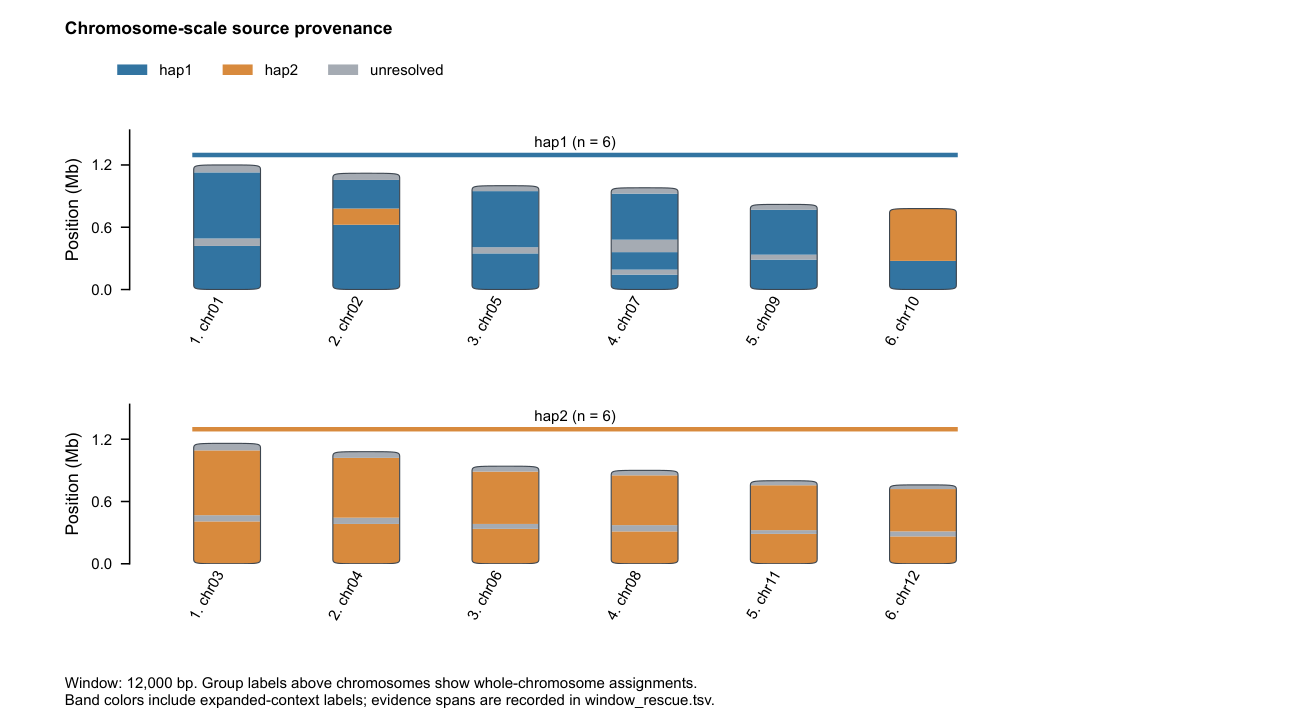
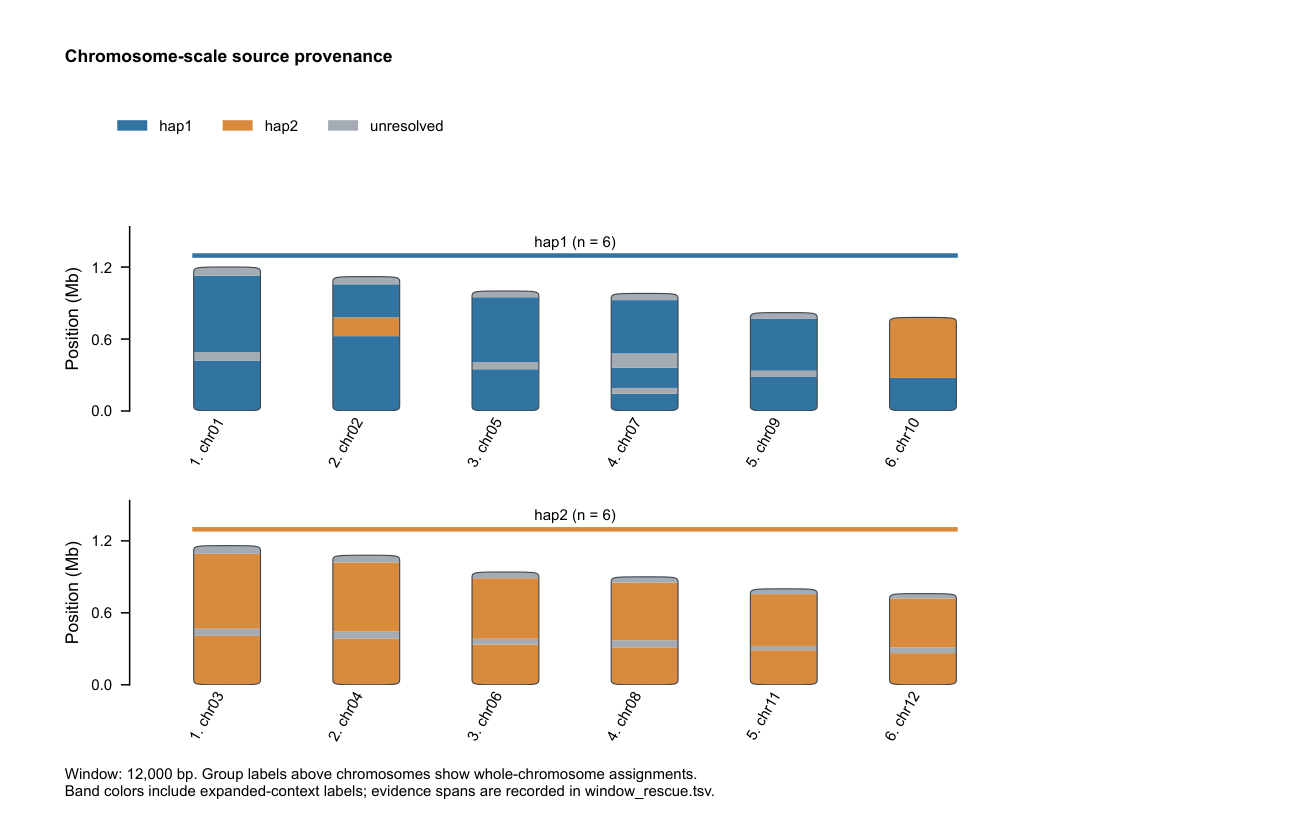
Simplify HTML and prevent chromosome provenance row overlap

diff --git a/hapreturn/plotting.py b/hapreturn/plotting.py
@@ -82,6 +82,23 @@ def source_blocks(data, size=16):
     return blocks
 
 
+def space_chromosome_rows(fig, axes):
+    """Reserve physical space for rotated chromosome labels between rows."""
+    fig.canvas.draw()
+    renderer = fig.canvas.get_renderer()
+    depths = [max(0, ax.get_window_extent(renderer).y0 - ax.get_tightbbox(renderer).y0)
+              / fig.dpi * 25.4 for ax in axes]
+    row_mm, top_mm, gap_mm, footer_mm = 26, 32, 5, 12
+    height_mm = max(100, top_mm + row_mm * len(axes) + sum(depths)
+                    + gap_mm * (len(axes) - 1) + footer_mm)
+    fig.set_size_inches(WIDTH, height_mm / 25.4, forward=True)
+    cursor = height_mm - top_mm
+    for ax, depth in zip(axes, depths):
+        ax.set_position([0.10, (cursor - row_mm) / height_mm, 0.88, row_mm / height_mm])
+        cursor -= row_mm + depth + gap_mm
+    return height_mm
+
+
 def partition_pages(data, pdf):
     labels, names, colors = data.labels, list(data.records), palette(data.labels)
     categories = labels + ["unresolved", "unplaced"]
@@ -135,8 +152,10 @@ def partition_pages(data, pdf):
         nrows = len(selected_blocks)
         fig = plt.figure(figsize=(WIDTH, min(170, max(95, 40 + 31 * nrows)) / 25.4))
         grid = fig.add_gridspec(nrows, 1, left=0.10, right=0.98, top=0.82, bottom=0.22, hspace=0.72)
+        axes = []
         for row in range(nrows):
             ax = fig.add_subplot(grid[row, 0])
+            axes.append(ax)
             assignment, subset = selected_blocks[row]
             for x, name in enumerate(subset):
                 length = data.records[name] / 1e6
@@ -164,10 +183,11 @@ def partition_pages(data, pdf):
             ax.tick_params(axis="x", length=0, pad=2)
             ax.yaxis.set_major_locator(MaxNLocator(nbins=3))
             ax.spines["bottom"].set_visible(False)
-        fig.text(0.05, 0.97, "Chromosome-scale source provenance", fontsize=7, weight="bold", va="top")
+        height_mm = space_chromosome_rows(fig, axes)
+        fig.text(0.05, 1 - 7 / height_mm, "Chromosome-scale source provenance", fontsize=7, weight="bold", va="top")
         fig.legend(handles=[Patch(facecolor=colors[l], label=l) for l in categories[:3]],
-                   loc="upper left", bbox_to_anchor=(0.08, 0.93), ncol=3)
-        fig.text(0.05, 0.025, f"Window: {data.window_size:,} bp. Group labels above chromosomes show whole-chromosome assignments.\n"
+                   loc="upper left", bbox_to_anchor=(0.08, 1 - 15 / height_mm), ncol=3)
+        fig.text(0.05, 4 / height_mm, f"Window: {data.window_size:,} bp. Group labels above chromosomes show whole-chromosome assignments.\n"
                  "Band colors include expanded-context labels; evidence spans are recorded in window_rescue.tsv.", fontsize=6)
         pages.append(save_page(fig, pdf, f"partition_chromosomes_{offset}"))
     return pages

diff --git a/hapreturn/visualize.py b/hapreturn/visualize.py
@@ -135,20 +135,6 @@ def write_html(path, data, sections):
     categories = data.labels + ["unresolved", "unplaced"]
     stats = "".join(f'<tr><td>{i}</td><td>{escape(label)}</td><td>{count:,}</td><td>{bases:,}</td><td>{bases / 1e6:.3f}</td></tr>' for i, (label, count, bases) in enumerate(zip(categories, data.counts, data.bases), 1))
     summary = '<section><h2>Recovery summary</h2><table><thead><tr><th>No.</th><th>Source</th><th>Sequence count</th><th>Total length (bp)</th><th>Total length (Mb)</th></tr></thead><tbody>' + stats + '</tbody></table></section>'
-    if any(row.get("assignment_mode") == "balanced" for row in details.values()):
-        summary += '<section><h2>Group-constrained assignment</h2><p>Equal source counts are enforced within each supplied homolog group. The selected combination maximizes total union-covered bases. The assignment table retains the independent evidence label alongside the final label; review flags are recorded in group_qc.tsv.</p></section>'
-    metric_labels = {"all_windows": "All local windows", "raw_unresolved": "Unresolved before expansion",
-                     "rescued_by_expansion": "Resolved by expansion", "remaining_unresolved": "Still unresolved",
-                     "no_accepted_alignment": "Remaining: no accepted alignment",
-                     "below_coverage_threshold": "Remaining: coverage below threshold",
-                     "competing_sources": "Remaining: competing source support"}
-    qc_table = ''.join(f'<tr><td>{escape(metric_labels[key])}</td><td>{count:,}</td><td>{bases:,}</td><td>{bases / 1e6:.3f}</td></tr>'
-                       for key, count, bases in window_qc(data))
-    maximum_context = max((row[5] for row in data.rescue_attempts), default=0)
-    summary += (f'<section><h2>Local provenance reassessment</h2><p>Window expansion: {len(data.rescue_attempts):,} attempted contexts; '
-                f'largest context: {maximum_context:,} bp. Remaining gray windows have insufficient accepted coverage or competing source support.</p>'
-                '<table><thead><tr><th>Status</th><th>Windows</th><th>Length (bp)</th><th>Length (Mb)</th></tr></thead>'
-                f'<tbody>{qc_table}</tbody></table></section>')
     maximum = max(data.records.values())
     tracks = []
     for index, (name, length) in enumerate(data.records.items()):

diff --git a/tests/test_visualize.py b/tests/test_visualize.py
@@ -50,8 +50,8 @@ class VisualizationTests(unittest.TestCase):
             self.assertIn('chr&lt;&amp;&quot;', report)
             self.assertIn('addEventListener', report)
             self.assertIn('Recovery summary', report)
-            self.assertIn('Local provenance reassessment', report)
-            self.assertIn('largest context:', report)
+            self.assertNotIn('Local provenance reassessment', report)
+            self.assertNotIn('Group-constrained assignment', report)
             self.assertTrue((out / 'window_qc.tsv').is_file())
             self.assertIn('<th>No.</th>', report)
             self.assertIn("#assignments tbody tr", report)

diff --git a/hapreturn/__init__.py b/hapreturn/__init__.py
@@ -1,3 +1,3 @@
 """HapReturn: recover assembly source provenance."""
 
-__version__ = "0.5.1"
+__version__ = "0.5.2"

diff --git a/docs/method.md b/docs/method.md
@@ -33,7 +33,7 @@ Identify runs of consecutive raw unresolved windows. For every window in a run, 
 
 `window_rescue.tsv` records attempted contexts, their source-covered bases and decisions. `window_provenance.tsv` preserves raw and revised labels, the method, and context coordinates. Thus a context-supported label is distinguishable from direct window evidence. Coordinates are zero-based and half-open.
 
-`window_qc.tsv` and HTML summarize raw unresolved, rescued and remaining unresolved windows by count and sequence length. Remaining windows are categorized by their original local evidence: no accepted alignment, maximum source coverage below threshold, or competing source support. Expansion reuses the same evidence, so a full gray run can still fail the thresholds.
+`window_qc.tsv` summarizes raw unresolved, rescued and remaining unresolved windows by count and sequence length. Remaining windows are categorized by their original local evidence: no accepted alignment, maximum source coverage below threshold, or competing source support. Expansion reuses the same evidence, so a full gray run can still fail the thresholds.
 
 ## Figures
 

diff --git a/README.md b/README.md
@@ -75,7 +75,7 @@ Within each original contiguous gray run, expand an unresolved window's evidence
 
 `window_provenance.tsv` records raw and revised labels, method and evidence span. `window_rescue.tsv` records every context attempt. Local labels are separate from chromosome group assignments.
 
-`window_qc.tsv` and the HTML reassessment table report how many windows were resolved by expansion and why others remain gray. Expanding a context does not add alignment evidence; an uncovered run or competing source support can remain unresolved at its full length. Updating these figures reuses the PAFs.
+`window_qc.tsv` reports how many windows were resolved by expansion and why others remain gray. Expanding a context does not add alignment evidence; an uncovered run or competing source support can remain unresolved at its full length. Updating these figures reuses the PAFs.
 
 ## Outputs
 

diff --git a/docs/figure-design.md b/docs/figure-design.md
@@ -31,8 +31,9 @@ of sequence similarity, not an estimate of bases moved between haplotypes.
 
 Python/matplotlib produces vector PDF with embedded TrueType fonts, 5–7 pt
 sans-serif text, 8 pt lowercase panel labels, white backgrounds, and one
-consistent blue/orange source palette. Partition figures use a width of 183 mm
-and page heights up to 170 mm. Alignment matrices increase width and height
+consistent blue/orange source palette. Partition figures use a width of 183 mm.
+Chromosome provenance pages reserve space for the measured label depth between
+rows and adapt page height to prevent overlap. Alignment matrices increase width and height
 with record count; correspondence figures increase height. Each recovered set
 remains continuous without reducing label sizes. HTML embeds the same rendered
 figures and searchable quantitative evidence without external resources.

diff --git a/README.zh-CN.md b/README.zh-CN.md
@@ -74,7 +74,7 @@ hapreturn \
 
 `window_provenance.tsv` 保留原始窗口覆盖、原始归属、最终局部归属、判定方法及证据范围；`window_rescue.tsv` 记录每次扩增尝试。局部扩增独立于染色体的组内约束分配。
 
-`window_qc.tsv` 和 HTML 中的窗口复核表列出扩增前后数量及剩余灰色的原因。扩大统计范围不会增加比对证据；整段缺少覆盖或两个来源竞争时，扩大到全长后仍可能未确定。更新这些图形可直接复用已有 PAF。
+`window_qc.tsv` 列出扩增前后数量及剩余灰色的原因。扩大统计范围不会增加比对证据；整段缺少覆盖或两个来源竞争时，扩大到全长后仍可能未确定。更新这些图形可直接复用已有 PAF。
 
 ## 输出
 

diff --git a/CHANGELOG.md b/CHANGELOG.md
@@ -1,5 +1,10 @@
 # Changelog
 
+## 0.5.2
+
+- Simplify HTML by removing the group-assignment and local-reassessment explanation sections.
+- Reserve measured chromosome-label space between provenance rows and adapt page height to prevent overlap.
+
 ## 0.5.1
 
 - Draw a complete alignment matrix for each recovered hap, retaining all original-contig rows from both sources and adapting figure dimensions without pagination.
